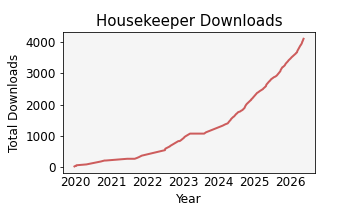
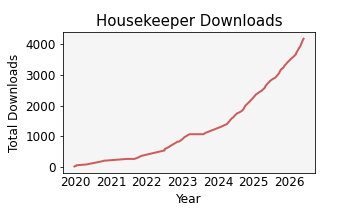
Property Filter: Custom formula indicator

diff --git a/release_notes.md b/release_notes.md
@@ -15,7 +15,7 @@ Feel free to report bugs and/or ideas for improvement on the [<ins>**Solid Edge 
 
 ## V2026.4
 
-### Check filename
+### Check Filename
 
 Added an option to require a match of all draft models.  (Thank you **@sven-11111!**)
 
@@ -32,9 +32,9 @@ See the [<ins>**Check Filename Help Topic**</ins>](https://github.com/rmcanany/S
 - Changed the name of `Update drawing views` to `Update drawings`.  Added an option to select all parts lists and tables.  Disable to select them individually.
 - For `Check drawings`, added centerlines, weld symbols and several others to the `Detached dimensions or annotations` check.  (Thank you again **@sven-11111!**)
 - Added multi-select for row operations in the `Property Input Editor`  (Thank you **@TeeVar!**)  Did the same for the `Variable Input Editor` and `Property Filter`.  
-- Fixed a regression with `Property Filter` variable substitution.  (Thank you **@Lui10!**).  Also fixed an issue with row naming for filters with more than 26 conditions.
+- Fixed a regression with `Property Filter` variable substitution.  (Thank you **@Lui10!**).  Fixed an issue with row naming for filters with more than 26 conditions.  Added a visual indicator when a custom formula is replaced with the default.
 - Added the `RequiresForegroundProcessing` flag to `Check Drawing Parts List`, `Check Drawings`, and `Update Drawings`.  (Thank you again **@Lui10!**)
-- Fixed an issue where Property Favorites could not be blank for `Edit Properties` or `Property Filters`.
+- Fixed an issue where `Property Favorites` could not be blank for `Edit Properties` or `Property Filters`.
 
 ## V2026.3
 

diff --git a/HelpTopics.md b/HelpTopics.md
@@ -426,8 +426,9 @@ In the image above, sticking with the default formula means you would get all pa
 
 **Editing the Formula**
 
-You can optionally change the formula. Click the `Edit Formula` button in the toolbar and type the desired expression. For example, if you wanted all parts from Project 7481, **either** made out of Stainless, **or** engineered by Fred, you would enter the formula shown, 
-i.e., `A AND (B OR C)`.
+You can optionally change the formula. Click the `Edit Formula` button in the toolbar and type the desired expression. For example, if you wanted all parts from Project 7481, **either** made out of Stainless, **or** engineered by Fred, you would enter the formula shown, i.e., `A AND (B OR C)`.
+
+Note, if any Conditions are added, removed, or rearranged, the program does not try to fix the customized formula.  It simply replaces it with the default.  If this occurs, the formula textbox is colored orange to let you know.
 
 **One More Thing About the Formula**
 

diff --git a/README.md b/README.md
@@ -426,8 +426,9 @@ In the image above, sticking with the default formula means you would get all pa
 
 **Editing the Formula**
 
-You can optionally change the formula. Click the `Edit Formula` button in the toolbar and type the desired expression. For example, if you wanted all parts from Project 7481, **either** made out of Stainless, **or** engineered by Fred, you would enter the formula shown, 
-i.e., `A AND (B OR C)`.
+You can optionally change the formula. Click the `Edit Formula` button in the toolbar and type the desired expression. For example, if you wanted all parts from Project 7481, **either** made out of Stainless, **or** engineered by Fred, you would enter the formula shown, i.e., `A AND (B OR C)`.
+
+Note, if any Conditions are added, removed, or rearranged, the program does not try to fix the customized formula.  It simply replaces it with the default.  If this occurs, the formula textbox is colored orange to let you know.
 
 **One More Thing About the Formula**
 
